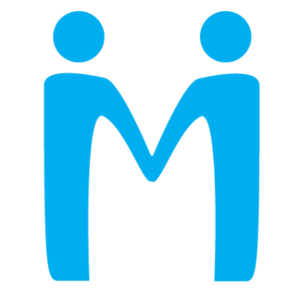
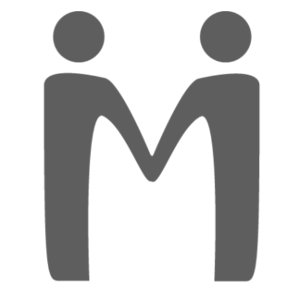
Makes default image gray, updates migrations

diff --git a/db/schema.rb b/db/schema.rb
@@ -11,7 +11,7 @@
 #
 # It's strongly recommended to check this file into your version control system.
 
-ActiveRecord::Schema.define(:version => 20130125014438) do
+ActiveRecord::Schema.define(:version => 20130125040227) do
 
   create_table "contact_forms", :force => true do |t|
     t.datetime "created_at", :null => false
@@ -178,6 +178,7 @@ ActiveRecord::Schema.define(:version => 20130125014438) do
     t.integer  "event_id"
     t.integer  "amount_cents"
     t.integer  "event_user_id"
+    t.string   "transaction_id"
     t.integer  "payment_method"
   end
 

diff --git a/db/migrate/20130124215639_add_image_fields_to_events.rb b/db/migrate/20130124215639_add_image_fields_to_events.rb
@@ -1,9 +1,5 @@
 class AddImageFieldsToEvents < ActiveRecord::Migration
-  def up
-    add_attachment :events, :image
-  end
-
-  def down
+  def change
     add_attachment :events, :image
   end
 end

diff --git a/db/migrate/20130124225720_add_image_fields_to_groups.rb b/db/migrate/20130124225720_add_image_fields_to_groups.rb
@@ -1,9 +1,5 @@
 class AddImageFieldsToGroups < ActiveRecord::Migration
-  def up
-    add_attachment :groups, :image
-  end
-
-  def down
+  def change
     add_attachment :groups, :image
   end
 end
